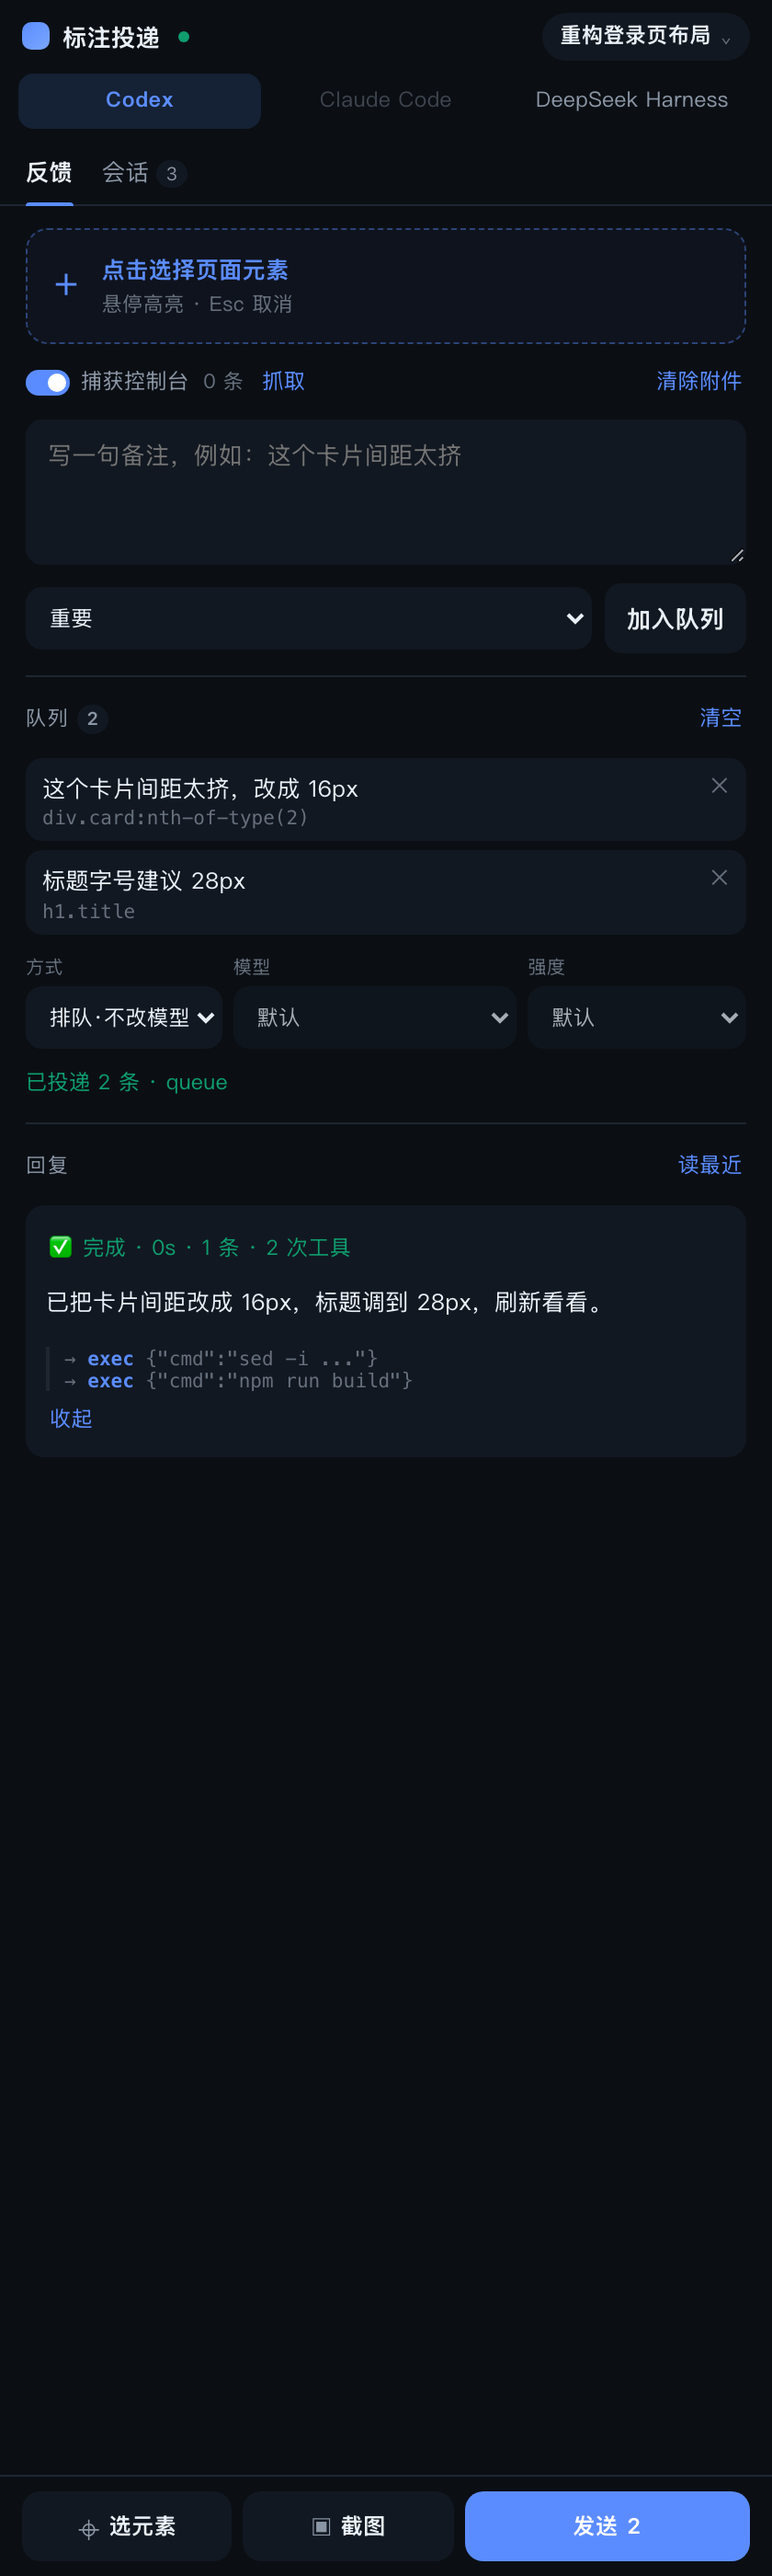
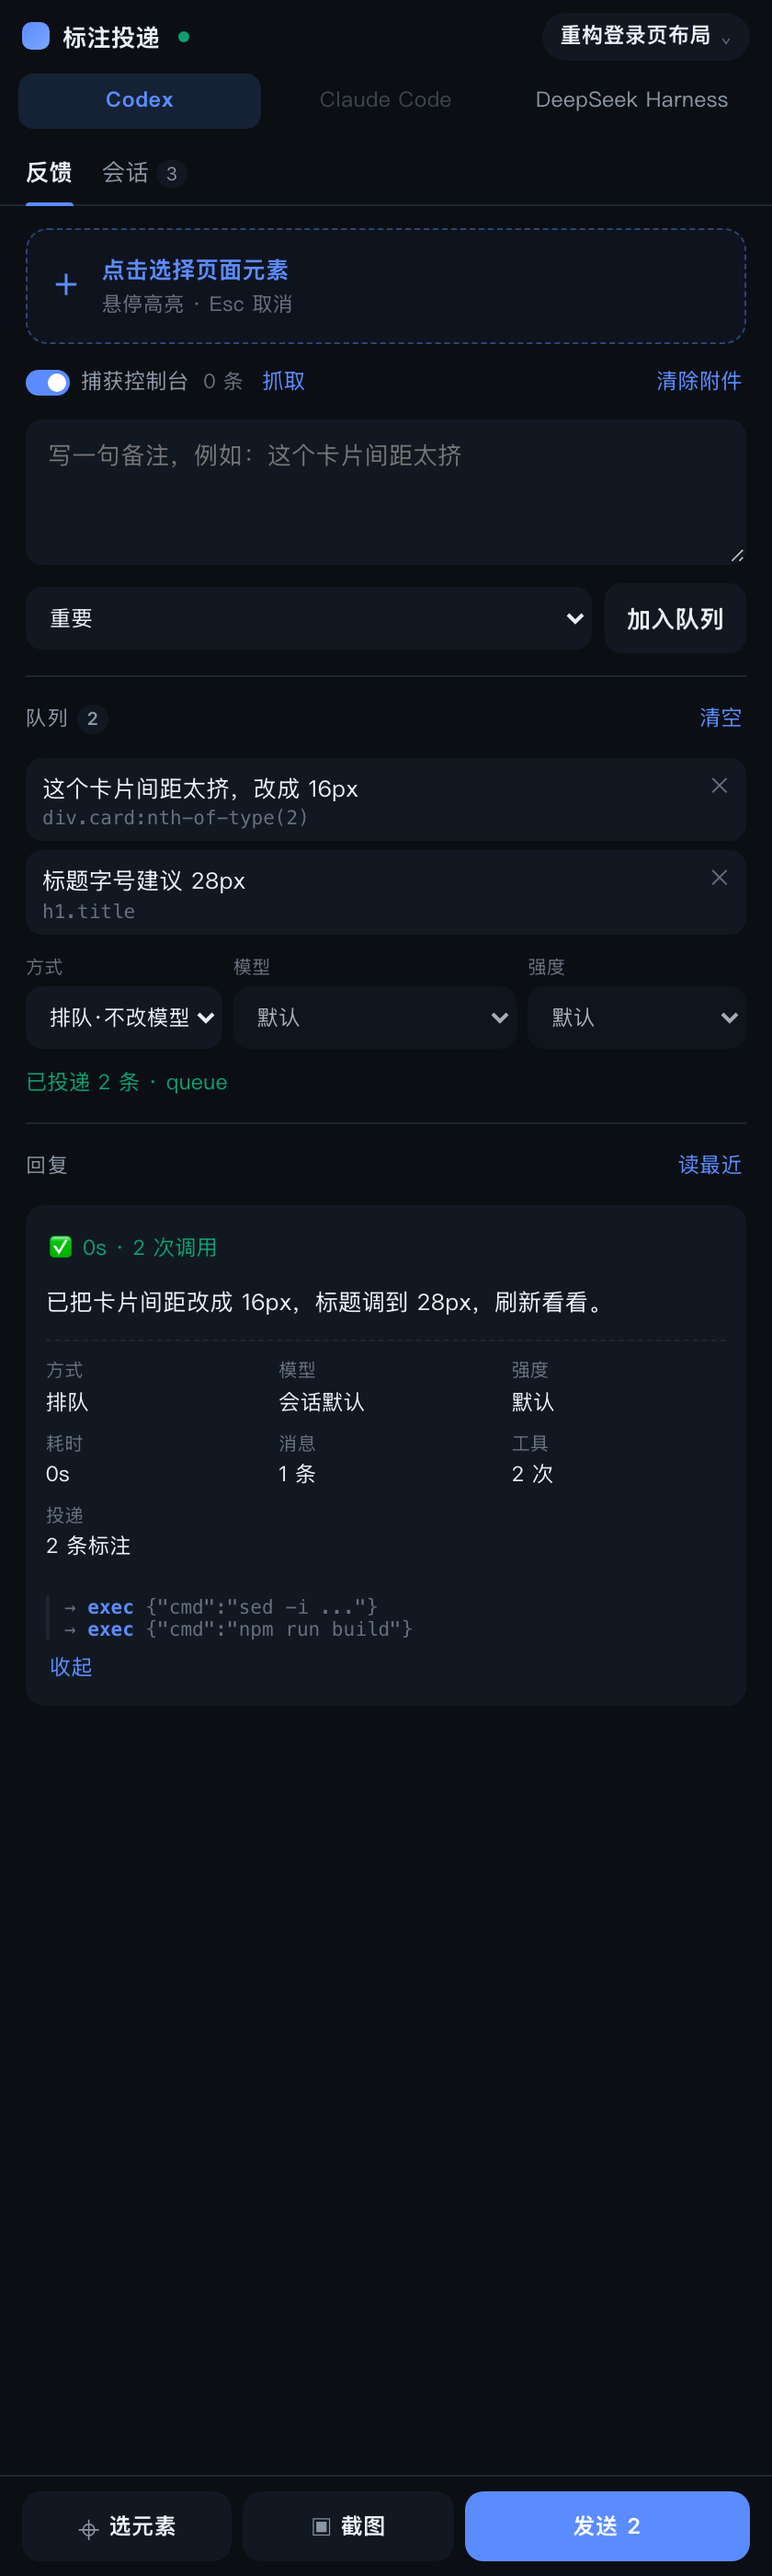
feat: 回复卡片压成一行状态 + 详情按钮
- 收起时只显示 ✅ 耗时 · 调用次数（多条才显示条数）
- 点「详情」展开：方式/模型/强度/耗时/消息数/工具次数/投递条数，
  下面是完整文字与工具调用链
- 详情面板按 3 列网格排，一眼扫完

diff --git a/extension/sidepanel.js b/extension/sidepanel.js
@@ -283,9 +283,11 @@ async function sendAll() {
   hint('sendHint', '发送中…');
   const startedAt = Date.now();
   try {
+    lastSend = { mode: $('mode').value, model: $('model').value, effort: $('effort').value, count: null };
     const d = await api('/send', { method: 'POST', body: JSON.stringify({
       tool, thread: selected.id, mode: $('mode').value,
       model: $('model').value || undefined, effort: $('effort').value || undefined }) });
+    lastSend.count = d.count;
     if (d.dryRun) hint('sendHint', `DRY_RUN：已生成 ${d.count} 条，未真正投递`, 'ok');
     else hint('sendHint', `已投递 ${d.count} 条 · ${d.mode}${d.effort ? ' · ' + d.effort : ''}`, 'ok');
     await loadQueue();
@@ -347,34 +349,47 @@ function pollReply(since) {
     const text = last?.text || '';
     const multi = msgs.length > 1;
     const long = text.length > 110;
-    const needToggle = done && (multi || long || tools > 0);
+    const canMore = done && (multi || long || tools > 0);
+
+    const modeLabel = ({ queue: '排队', resume: '续跑', print: '续跑', headless: '续跑' })[lastSend.mode] || lastSend.mode || '-';
+    const metaRows = [
+      ['方式', modeLabel],
+      ['模型', lastSend.model || '会话默认'],
+      ['强度', lastSend.effort || '默认'],
+      ['耗时', `${sec}s`],
+      ['消息', `${msgs.length} 条`],
+      ['工具', `${tools} 次`],
+      ['投递', lastSend.count != null ? `${lastSend.count} 条标注` : '-'],
+    ];
 
     card.innerHTML = `
-      <div class="live ${done ? 'ok' : ''}">${done ? '✅ 完成' : '等待回复'} · ${sec}s${
-        done ? ` · ${msgs.length} 条${tools ? ` · ${tools} 次工具` : ''}` : ''}</div>
+      <div class="live ${done ? 'ok' : ''}">${done ? '✅' : '等待回复'} ${sec}s${
+        tools ? ` · ${tools} 次调用` : ''}${multi ? ` · ${msgs.length} 条` : ''}</div>
       ${done && text ? `<div class="live-sum${long || multi ? ' clamp' : ''}">${esc(text)}</div>` : ''}
+      <div class="live-meta hidden">
+        ${metaRows.map(([k, v]) => `<span><i>${k}</i>${esc(v)}</span>`).join('')}
+      </div>
       <div class="live-detail hidden"></div>
-      ${needToggle ? '<button class="link live-more">展开</button>' : ''}`;
+      ${canMore ? '<button class="link live-more">详情</button>' : ''}`;
 
     const more = card.querySelector('.live-more');
     const sum = card.querySelector('.live-sum');
+    const meta = card.querySelector('.live-meta');
     const detail = card.querySelector('.live-detail');
-    if (more) {
-      more.addEventListener('click', () => {
-        const open = detail.classList.toggle('hidden') === false;
-        if (multi) {
-          sum.classList.add('hidden');
-          if (open && !detail.childElementCount) msgs.forEach((m) => detail.appendChild(buildMsg(m)));
-        } else {
-          sum.classList.toggle('clamp', !open);
-          if (open && !detail.childElementCount) {
-            const c = chainNode(last);
-            if (c) detail.appendChild(c);
-          }
+    if (more) more.addEventListener('click', () => {
+      const open = detail.classList.contains('hidden');
+      meta.classList.toggle('hidden', !open);
+      detail.classList.toggle('hidden', !open);
+      if (open) {
+        if (!detail.childElementCount) {
+          if (multi) msgs.forEach((m) => detail.appendChild(buildMsg(m)));
+          else { sum?.classList.remove('clamp'); const c = chainNode(last); if (c) detail.appendChild(c); }
         }
-        more.textContent = open ? '收起' : '展开';
-      });
-    }
+      } else {
+        sum?.classList.add('clamp');
+      }
+      more.textContent = open ? '收起' : '详情';
+    });
   };
 
   const tick = async () => {

diff --git a/extension/sidepanel.css b/extension/sidepanel.css
@@ -166,3 +166,7 @@ button:disabled{opacity:.45;cursor:not-allowed}
 
 .live-sum.clamp{display:-webkit-box;-webkit-line-clamp:2;-webkit-box-orient:vertical;overflow:hidden}
 .live-detail.hidden{display:none}
+
+.live-meta{display:grid;grid-template-columns:repeat(3,1fr);gap:5px 10px;padding:8px 0 2px;border-top:1px dashed var(--line);margin-top:6px}
+.live-meta span{display:flex;flex-direction:column;font-size:11.5px;color:var(--ink)}
+.live-meta i{font-style:normal;color:var(--faint);font-size:10px;margin-bottom:1px}
